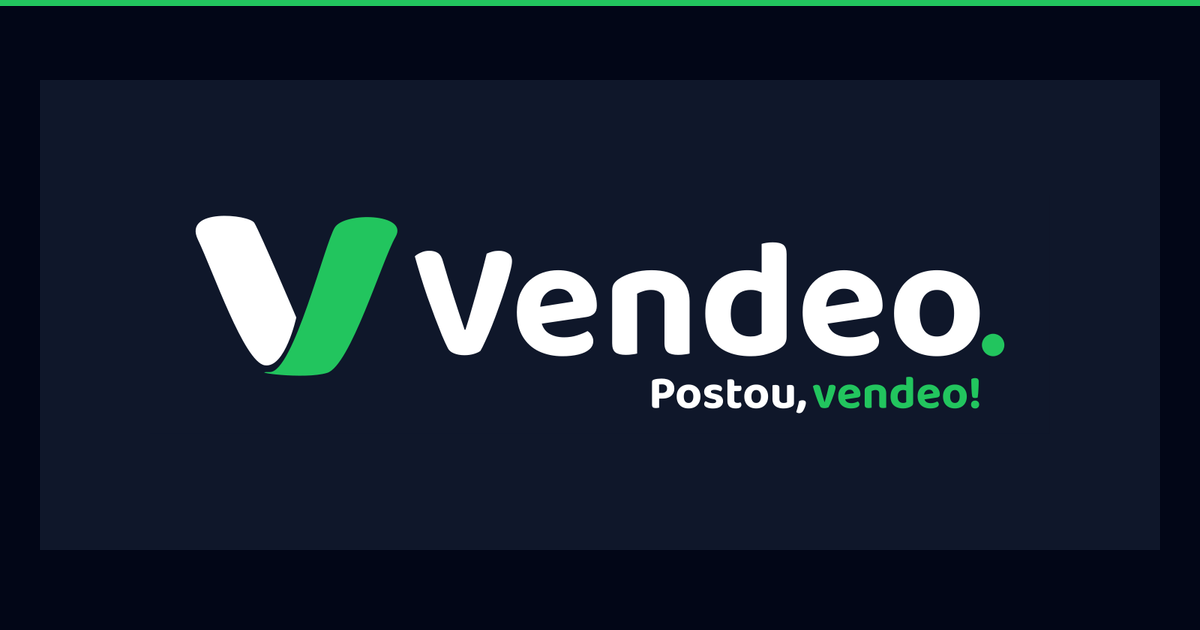
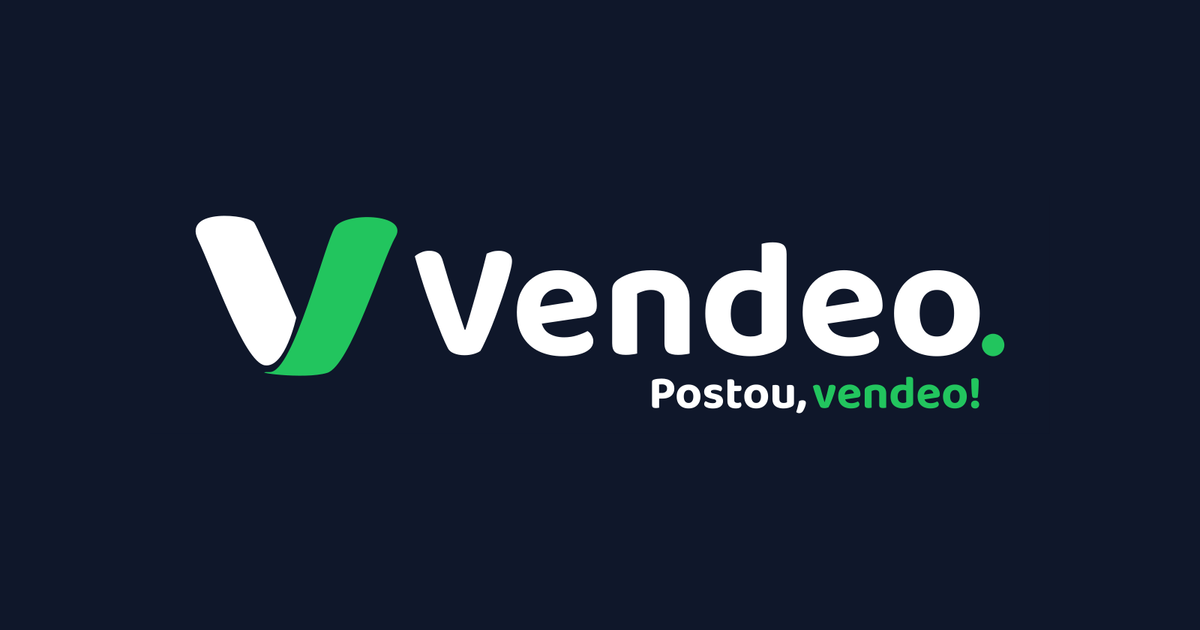
fix(51.2-06): fundo uniforme #0F172A, remover moldura e faixa verde
- scripts/seo/compose-share-image.ts: canvas preenchido uniformemente com
  #0F172A (superficie da landing / fundo dos ativos oficiais), sem moldura
  #020617 e sem faixa de acento #22C55E; remove constantes deep/accent,
  PANEL_* e ACCENT_BAND_HEIGHT; logo/slogan preservados com fit contain,
  proporcao original e margens amplas (box 900x320 no canvas 1200x630)
- public/seo/_preview-vendeo-og.png: previa 1200x630 regenerada para revisao
  visual (C1) com a revisao solicitada pelo revisor aplicada

Changed region(s): [[0.0, 0.0, 1.0, 0.0302]]

diff --git a/scripts/seo/compose-share-image.ts b/scripts/seo/compose-share-image.ts
@@ -15,8 +15,10 @@
  *  - determinístico: sem aleatoriedade, sem relógio de parede, sem rede, sem IA,
  *    sem chamada paga e sem dependência nova;
  *  - preserva a proporção do logo (`fit: "contain"`, sem deformação nem recorte);
- *  - fundo na paleta do design system (superfície/deep + acento verde), sem
- *    light mode, sem emojis e sem tipografia nova;
+ *  - fundo uniforme `#0F172A` (superfície da landing) em todo o canvas, o mesmo
+ *    fundo dos ativos oficiais de logo — sem moldura mais escura e sem faixa de
+ *    acento, para que o logo se funda sem caixa visível; sem light mode, sem
+ *    emojis e sem tipografia nova;
  *  - afirma 1200×630 via `sharp(...).metadata()` antes de gravar.
  *
  * Uso:
@@ -36,31 +38,24 @@ export const SHARE_IMAGE_HEIGHT = 630;
 
 /** Paleta do design system aplicada à composição (D-11 / MASTER.md). */
 export const COLORS = {
-  /** `--bg-surface` — superfície aprovada da landing. */
+  /**
+   * `--bg-surface` — superfície aprovada da landing (`#0F172A`). Usada como
+   * preenchimento **uniforme** de todo o canvas, pois é também o fundo dos
+   * ativos oficiais de logo: o logo se funde sem caixa visível.
+   */
   surface: "#0F172A",
-  /** `--bg-deep` — camada profunda (painel interno). */
-  deep: "#020617",
-  /** `--accent-green` — acento verde. */
-  accent: "#22C55E",
 } as const;
 
 /** Caminho público de saída padrão do asset final. */
 export const DEFAULT_OUT_PATH = "public/seo/vendeo-og-1200x630.png";
 
-/** Caixa máxima reservada ao logo (bounding box). Preserva proporção via `contain`. */
+/**
+ * Caixa máxima reservada ao logo (bounding box). Preserva proporção via
+ * `contain` e deixa margens amplas em relação ao canvas (150px laterais e
+ * ~155px verticais), sem moldura nem faixa ao redor.
+ */
 const LOGO_BOX_WIDTH = 900;
 const LOGO_BOX_HEIGHT = 320;
-
-/**
- * Painel de superfície interno (centralizado verticalmente no canvas). Usa
- * `#0F172A`, o mesmo fundo dos ativos oficiais de logo, para que o logo se
- * funda ao painel sem caixa visível.
- */
-const PANEL_WIDTH = 1120;
-const PANEL_HEIGHT = 470;
-
-/** Altura da faixa de acento no topo do canvas. */
-const ACCENT_BAND_HEIGHT = 6;
 
 export interface ComposeOptions {
   /** Fonte local do logo horizontal (dark). Recebida por CLI/env — nunca literal. */
@@ -141,47 +136,17 @@ export async function composeShareImage(
       ? options.outPath
       : DEFAULT_OUT_PATH;
 
-  const accentBand = await sharp({
-    create: {
-      width: SHARE_IMAGE_WIDTH,
-      height: ACCENT_BAND_HEIGHT,
-      channels: 4,
-      background: COLORS.accent,
-    },
-  })
-    .png()
-    .toBuffer();
-
-  const surfacePanel = await sharp({
-    create: {
-      width: PANEL_WIDTH,
-      height: PANEL_HEIGHT,
-      channels: 4,
-      background: COLORS.surface,
-    },
-  })
-    .png()
-    .toBuffer();
-
   const logoLayer = await buildLogoLayer(primaryLogo);
-
-  const canvasCenterY = Math.floor(SHARE_IMAGE_HEIGHT / 2);
-  const panelTop = canvasCenterY - Math.floor(PANEL_HEIGHT / 2);
-  const panelLeft = Math.floor((SHARE_IMAGE_WIDTH - PANEL_WIDTH) / 2);
 
   const composed = await sharp({
     create: {
       width: SHARE_IMAGE_WIDTH,
       height: SHARE_IMAGE_HEIGHT,
       channels: 4,
-      background: COLORS.deep,
+      background: COLORS.surface,
     },
   })
-    .composite([
-      { input: accentBand, top: 0, left: 0 },
-      { input: surfacePanel, top: panelTop, left: panelLeft },
-      { input: logoLayer, gravity: "centre" },
-    ])
+    .composite([{ input: logoLayer, gravity: "centre" }])
     .png()
     .toBuffer();
 
